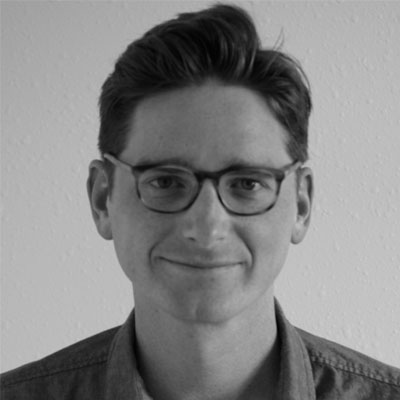
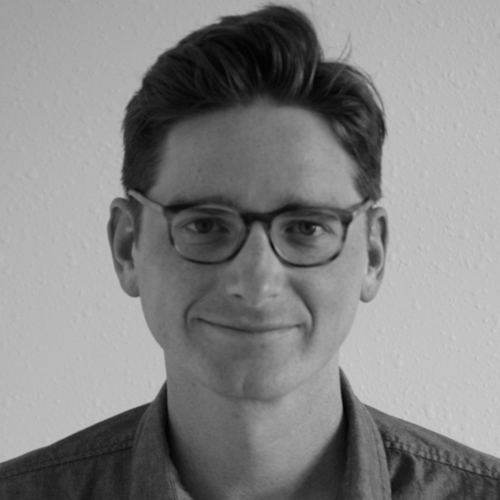
Kassandra Perch
New Speaker

diff --git a/perch.html b/perch.html
@@ -1,0 +1,7 @@
+<!DOCTYPE html><html class="no-js" lang="en"><head><meta charset="utf-8"><!--  Design by iamCGD--><title>NodeConf Argentina</title><meta http-equiv="X-UA-Compatible" content="IE=edge,chrome=1"><meta name="viewport" content="width=device-width,initial-scale=1"><link rel="shortcut icon" href="../assets/images/favicon.png"><meta name="theme-color" content="#1A2024"><meta name="msapplication-navbutton-color" content="#1A2024"><meta name="apple-mobile-web-app-status-bar-style" content="#1A2024"><meta name="keywords" content="nodeconf,argentina,konex,buenos aires,javascript,nodejs,node,js"><meta name="description" property="og:description" itemprop="description" content="Kassandra is a developer relations engineer at IOpipe by day, and a nodebotanist, Electrical Engineering student, and GIF addict by night."><link rel="canonical" href="https://2017.nodeconf.com.ar/"><meta name="twitter:title" itemprop="name" property="og:title" content="Kassandra Perch"><meta name="twitter:description" content="Kassandra is a developer relations engineer at IOpipe by day, and a nodebotanist, Electrical Engineering student, and GIF addict by night."><meta name="twitter:card" content="summary_large_image"><meta name="twitter:site" content="@nodeconfar"><meta name="twitter:creator" content="@nodeconfar"><meta name="author" itemprop="creator" content="NodeConf Argentina <hello@nodeconf.com.ar>"><!-- Open Graph data --><meta property="og:title" content="NodeConf Argentina 2017 - Kassandra Perch"><meta property="og:type" content="website"><meta property="og:description" content="Kassandra is a developer relations engineer at IOpipe by day, and a nodebotanist, Electrical Engineering student, and GIF addict by night."><meta property="og:url" content="https://2017.nodeconf.com.ar/perch.html"><meta property="og:image" content="https://2017.nodeconf.com.ar/assets/images/speakers/flyer-perch.jpg"><!-- twitter only cares about the last meta image repeat the cover --><meta name="twitter:image:src" content="https://2017.nodeconf.com.ar/assets/images/speakers/flyer-perch.jpg"><link rel="stylesheet" type="text/css" href="css/main.css"><link href="https://fonts.googleapis.com/css?family=Abel" rel="stylesheet" type="text/css"><script>(function(i,s,o,g,r,a,m){i['GoogleAnalyticsObject']=r;i[r]=i[r]||function(){
+  (i[r].q=i[r].q||[]).push(arguments)},i[r].l=1*new Date();a=s.createElement(o),
+  m=s.getElementsByTagName(o)[0];a.async=1;a.src=g;m.parentNode.insertBefore(a,m)
+  })(window,document,'script','https://www.google-analytics.com/analytics.js','ga');
+
+  ga('create', 'UA-99917583-1', 'auto');
+  ga('send', 'pageview');</script></head><body class="bg-light-gray"><section class="vh-100"><div class="mw8 center pt4 pb0-ns pb4 ph3 flex justify-end"><a href="index.html" class="back-home"><div class="tooltip">back</div></a></div><div class="mw75 center pb5 cb ph3"><div class="flex justify-between flex-column flex-row-ns"><div class="relative w-100 w-50-ns"><span class="relative"><img src="assets/images/speakers/perch.jpg" class="profile-speaker"><abbr class="absolute bottom--1 left--1"><img src="assets/images/speakers/profile.png"></abbr></span><span class="pa3 ba ttu near-black b--near-black bw1 absolute bottom--2 left-1">Austin, TX</span> <span class="absolute top--2 right-2"><img src="assets/images/speakers/misc1.png"></span></div><div class="tc w-100 w-50-ns"><span class="center w0 bg-light-green h3 db mb2"></span><div class="cf"><img src="assets/images/social/twitter.svg" class="mw2 v-btm"></div><a href="https://twitter.com/nodebotanist" target="_blank" class="pt2 pointer link dib f4 light-green hover-near-black">@nodebotanist</a><h3 class="f1 pa3">Kassandra Perch</h3><p>Kassandra is a developer relations engineer at IOpipe by day, and a nodebotanist, Electrical Engineering student, and GIF addict by night. They can often be found herding microcontrollers and/or cats in their Austin, TX home.</p><span class="center w0 bg-light-green h3 db mt2"></span></div></div></div></section><footer class="bg-near-black pv2 ph2 ph0-ns light-gray fixed bottom-0 w-100"><div class="flex items-center justify-between mw8 center"><ul class="list flex items-center"><li class="mw3"><img src="assets/images/logom-header-nodeconf.png" alt="logo-nodeconf"></li><li><a href="https://2016.nodeconf.com.ar/" target="_blank" class="link dib white ttu">previous edition</a></li></ul><ul id="social" class="list flex items-center justify-between pr2"><li class="mh2-l mw2"><a href="https://www.facebook.com/nodeconfar/" target="_blank"><img src="assets/images/social/facebook.svg" class="v-btm"></a></li><li class="mh2-l mw2"><a href="https://twitter.com/nodeconfar" target="_blank"><img src="assets/images/social/twitter.svg" class="v-btm"></a></li><li class="mh2-l mw2"><a href="https://www.youtube.com/channel/UCSnHfAloFJ5m6MymGycUeaQ/" target="_blank"><img src="assets/images/social/youtube.svg" class="v-btm"></a></li></ul></div></footer></body></html>

diff --git a/index.html b/index.html
@@ -158,16 +158,16 @@
     <span class="v-top"><img src="assets/images/speakers/colin.jpg" class="w-100"></span>
     <div class="pa4 hover-bg-green-80 hide-child aspect-ratio--object">
       <div class="child dt w-100 h-100">
-        <div class="dtc relative"> <a href="colin.html" class="absolute top-0 f2 link near-black db w-100">Colin</a> <a href="https://twitter.com/collinestes" class="absolute bottom-0 link near-black db w-100 f5">@collinestes</a> </div>
+        <div class="dtc relative"> <a href="colin.html" class="absolute top-0 f2 link near-black db w-100 pointer">Colin Estes</a> <a href="https://twitter.com/collinestes" class="absolute bottom-0 link near-black db w-100 f5 pointer">@collinestes</a> </div>
       </div>
     </div>
   </article>
   <article class="w-50 w-25-ns fl-ns fl">
     <div class="aspect-ratio aspect-ratio--1x1 overflow-hidden">
-    <span class="v-top"><img src="assets/images/speakers/soon.png" class="w-100"></span>
+    <span class="v-top"><img src="assets/images/speakers/perch.jpg" class="w-100"></span>
     <div class="pa4 hover-bg-green-80 hide-child aspect-ratio--object">
       <div class="child dt w-100 h-100">
-        <div class="dtc relative"> <a href="colin.html" class="absolute top-0 f2 link near-black db w-100">Soon</a> <a href="#" class="absolute bottom-0 link near-black db w-100 f5"></a> </div>
+        <div class="dtc relative"> <a href="perch.html" class="absolute top-0 f2 link near-black db w-100 pointer">Kassandra Perch</a> <a href="https://twitter.com/nodebotanist" class="absolute bottom-0 link near-black db w-100 f5 pointer">@nodebotanist</a> </div>
       </div>
     </div>
   </article>
@@ -176,7 +176,7 @@
     <span class="v-top"><img src="assets/images/speakers/soon.png" class="w-100"></span>
     <div class="pa4 hover-bg-green-80 hide-child aspect-ratio--object">
       <div class="child dt w-100 h-100">
-        <div class="dtc relative"> <a href="colin.html" class="absolute top-0 f2 link near-black db w-100">Soon</a> <a href="#" class="absolute bottom-0 link near-black db w-100 f5"></a> </div>
+        <div class="dtc relative"> <a href="#" class="absolute top-0 f2 link near-black db w-100">Soon</a> <a href="#" class="absolute bottom-0 link near-black db w-100 f5"></a> </div>
       </div>
     </div>
   </article>
@@ -185,7 +185,7 @@
     <span class="v-top"><img src="assets/images/speakers/soon.png" class="w-100"></span>
     <div class="pa4 hover-bg-green-80 hide-child aspect-ratio--object">
       <div class="child dt w-100 h-100">
-        <div class="dtc relative"> <a href="colin.html" class="absolute top-0 f2 link near-black db w-100">Soon</a> <a href="#" class="absolute bottom-0 link near-black db w-100 f5"></a> </div>
+        <div class="dtc relative"> <a href="#" class="absolute top-0 f2 link near-black db w-100">Soon</a> <a href="#" class="absolute bottom-0 link near-black db w-100 f5"></a> </div>
       </div>
     </div>
   </article>

diff --git a/colin.html b/colin.html
@@ -49,7 +49,7 @@
     </a> </div>
   <div class="mw75 center pb5 cb ph3">
     <div class="flex justify-between flex-column flex-row-ns">
-      <div class="relative w-100 w-50-ns"> <span class="relative"><img src="assets/images/speakers/colin.jpg"><abbr class="absolute bottom--1 left--1"> <img src="assets/images/speakers/profile.png"></abbr></span> <span class="pa3 ba ttu near-black b--near-black bw1 absolute bottom--2 left-1">Houston, TX</span> <span class="absolute top--2 right-2"><img src="assets/images/speakers/misc1.png"></span> </div>
+      <div class="relative w-100 w-50-ns"> <span class="relative"><img src="assets/images/speakers/colin.jpg" class="profile-speaker"><abbr class="absolute bottom--1 left--1"> <img src="assets/images/speakers/profile.png"></abbr></span> <span class="pa3 ba ttu near-black b--near-black bw1 absolute bottom--2 left-1">Houston, TX</span> <span class="absolute top--2 right-2"><img src="assets/images/speakers/misc1.png"></span> </div>
       <div class="tc w-100 w-50-ns"> <span class="center w0 bg-light-green h3 db mb2"></span>
         <div class="cf"><img src="assets/images/social/twitter.svg" class="mw2 v-btm"></div>
         <a href="https://twitter.com/collinestes" target="_blank" class="pt2 pointer link dib f4 light-green hover-near-black">@collinestes</a>

diff --git a/css/main.css b/css/main.css
@@ -7901,6 +7901,10 @@ section {
     background-size: cover;
 }
 
+.profile-speaker  {
+    max-width: 400px;
+}
+
 @media screen and (max-width: 600px) {
     .trama {
         background-size: 100%;
